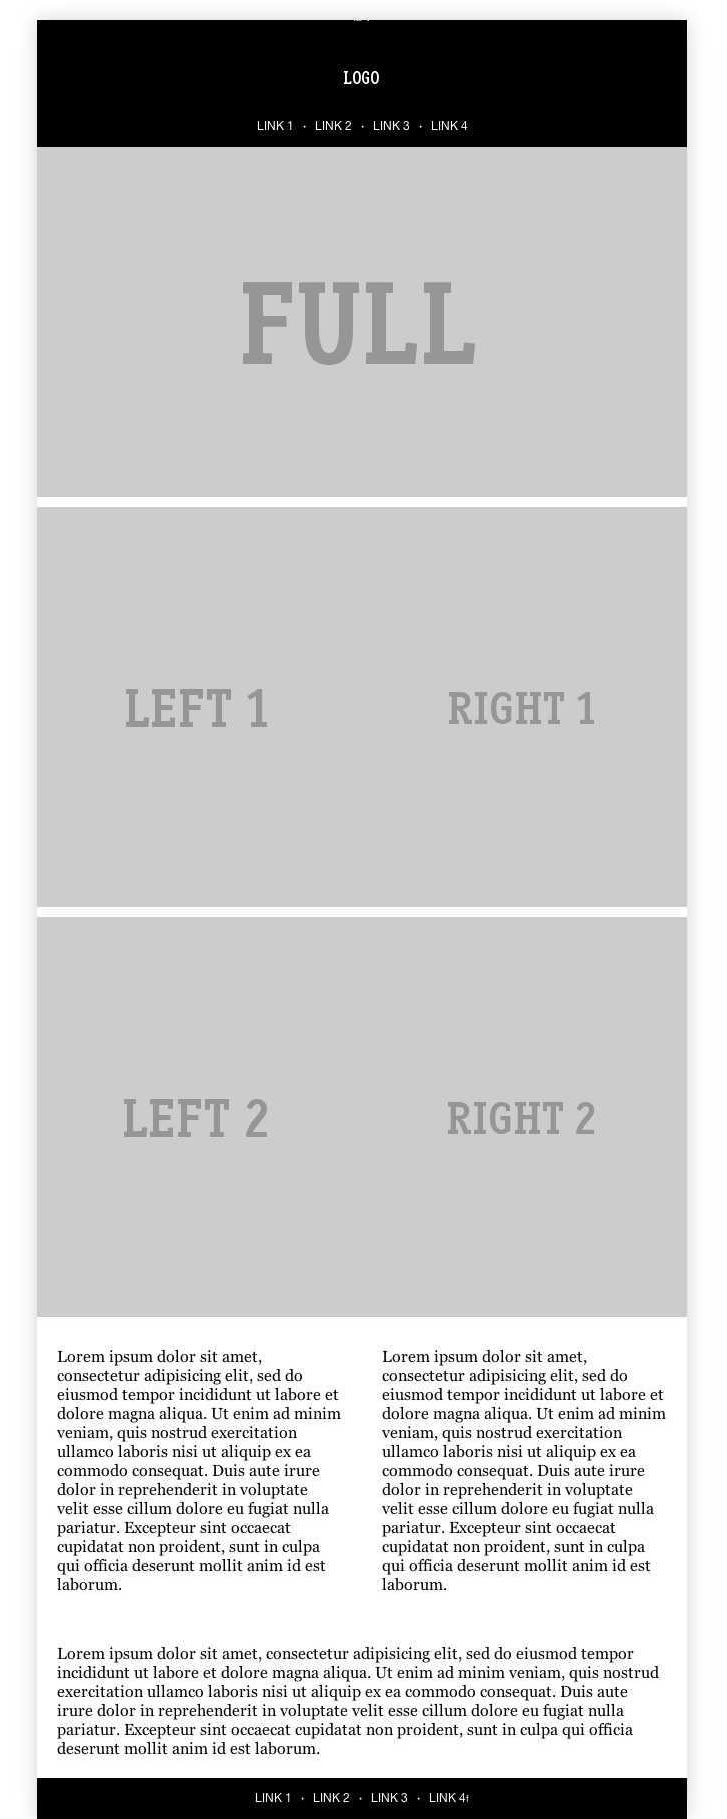
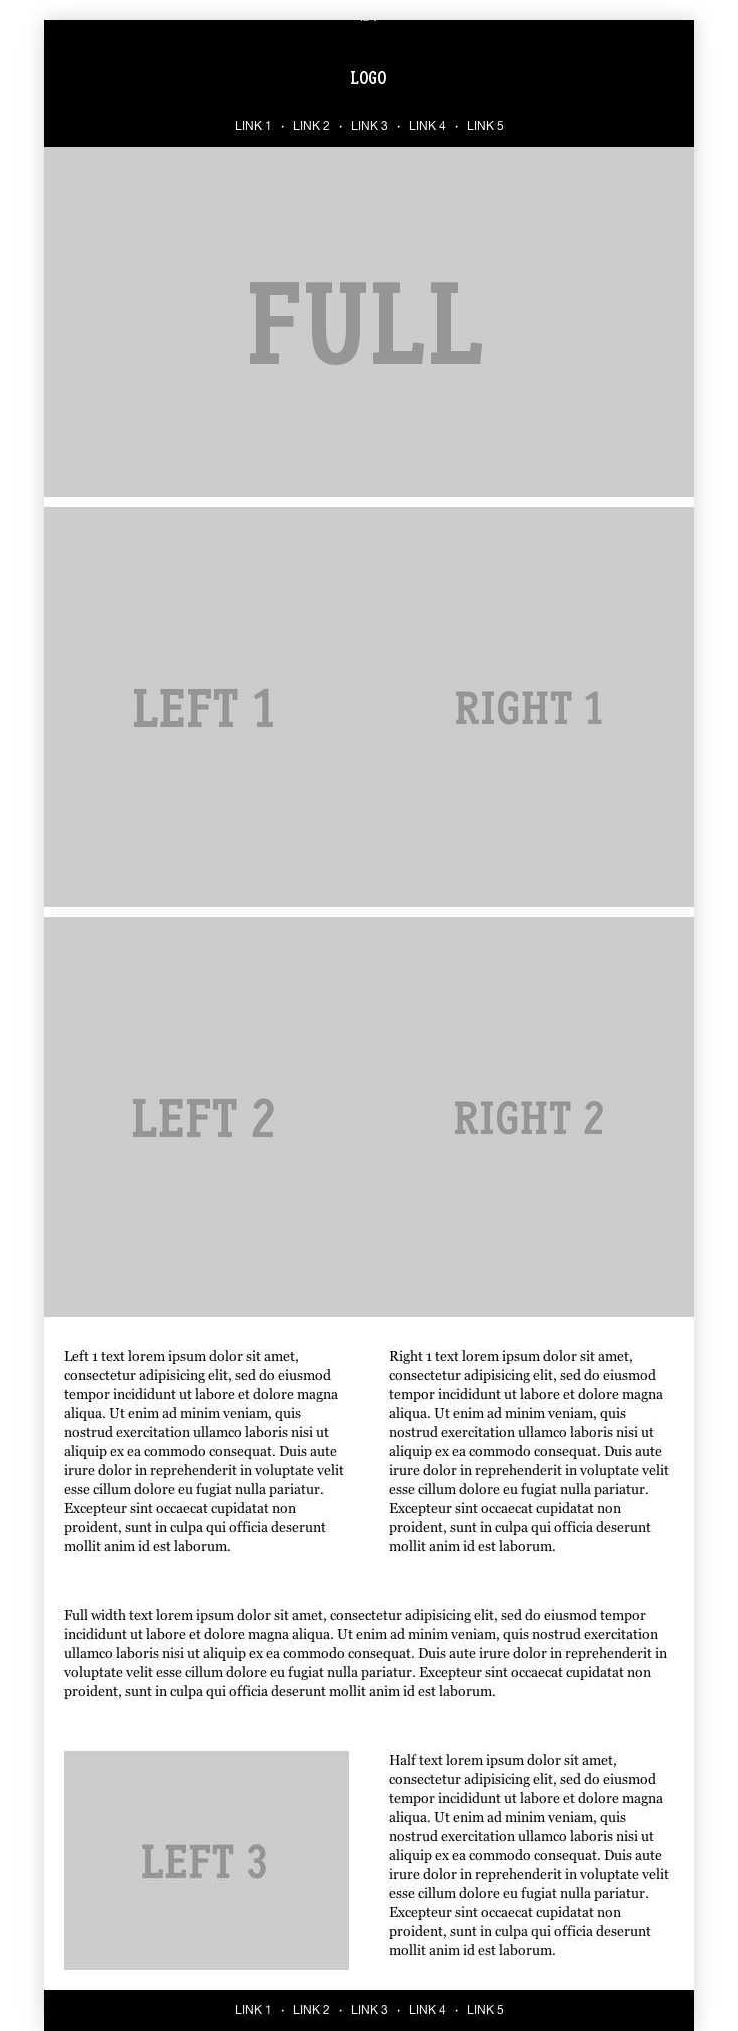
Updates to boilerplate.html New screenshots

diff --git a/boilerplate.html b/boilerplate.html
@@ -337,6 +337,43 @@
 							</tr>         
 						</table>
 						<!-- End Two Column -->
+						
+						<!-- Spacer -->
+						<table width="650" class="deviceWidth" border="0" cellpadding="0" cellspacing="0" align="center" bgcolor="#FFFFFF">
+							<tr>
+								<td valign="top" height="10" style="padding:0" bgcolor="#ffffff">
+									
+								</td>
+							</tr>         
+						</table>
+						<!-- End Spacer -->
+						
+						<!-- Two Column - Image WITH Text - Left over Right -->
+						<table width="650" class="deviceWidth" border="0" cellpadding="0" cellspacing="0" align="center" bgcolor="#eeeeed">
+							<tr>
+								<td valign="top" style="padding:0" bgcolor="#ffffff">
+									<table align="right" width="100%" dir="ltr" cellpadding="0" cellspacing="0" border="0" style="border-collapse: collapse; mso-table-lspace:0pt; mso-table-rspace:0pt; ">
+										<tr valign="top">
+											<td width="50%" dir="ltr" bgcolor="#FFFFFF" class="full pull-top">
+												<p style="mso-table-lspace:0;mso-table-rspace:0; padding:20px; margin:0;">
+													<a href="#"><img src="http://placehold.it/650x200&text=LEFT+4" alt="" border="0" width="325" style="display: block; width:100%; max-width:325px; height:auto;"></a>	
+													<br/>
+													Image with text lorem ipsum dolor sit amet, consectetur adipisicing elit, sed do eiusmod tempor incididunt ut labore et dolore magna aliqua. Ut enim ad minim veniam, quis nostrud exercitation ullamco laboris nisi ut aliquip ex ea commodo consequat.
+												</p>			 		
+											</td>
+											<td width="50%" dir="ltr" bgcolor="#FFFFFF" class="full pull-bottom">
+												<p style="mso-table-lspace:0;mso-table-rspace:0; padding:20px; margin:0;">
+													<a href="#"><img src="http://placehold.it/650x200&text=RIGHT+4" alt="" border="0" width="325" style="display: block; width:100%; max-width:325px; height:auto;"></a>	
+													<br/>
+													Image with text lorem ipsum dolor sit amet, consectetur adipisicing elit, sed do eiusmod tempor incididunt ut labore et dolore magna aliqua. Ut enim ad minim veniam, quis nostrud exercitation ullamco laboris nisi ut aliquip ex ea commodo consequat.						
+												</p>
+											</td>
+										</tr>
+									</table>
+								</td>
+							</tr>         
+						</table>
+						<!-- End Two Column -->
 			       
 			            <!-- Start Footer-->
 						<table width="650" border="0" cellpadding="0" cellspacing="0" align="center" class="deviceWidth" bgcolor="#000000">
